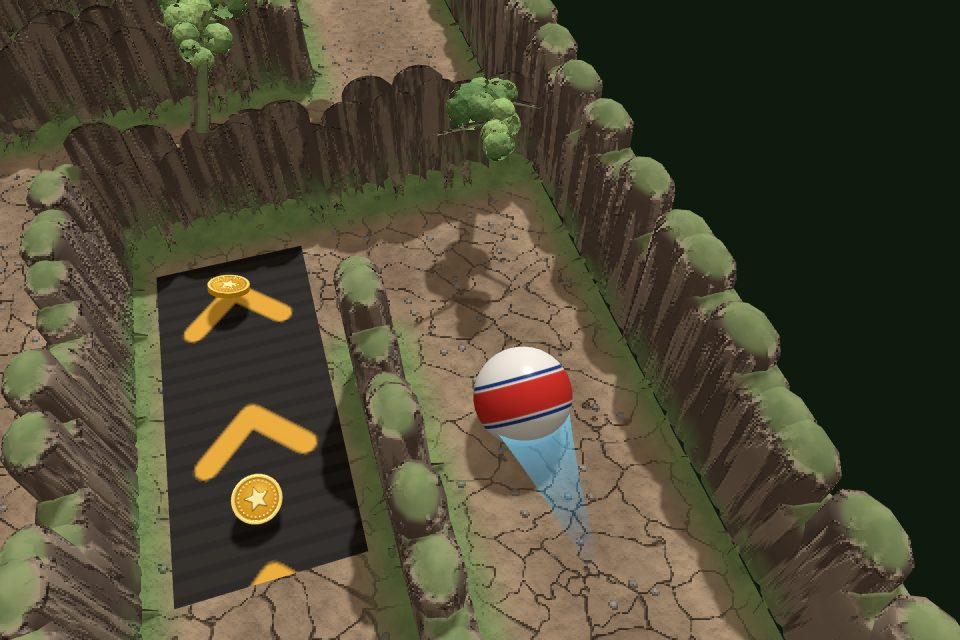
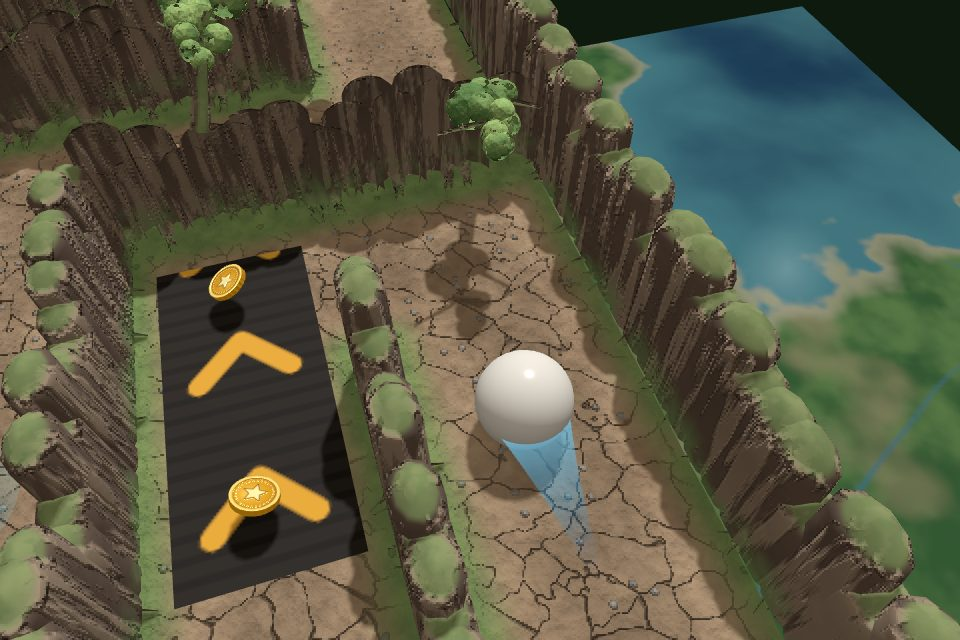
Redo the web landing page for the rescue story and the new look
The landing site now tells the story: Baron Von Ratchet has caged Rolle's
five friends, one on each planet's floor 10. New sections for the story
(with the five caged friends), the planets (and who is held on each), the
Crew and the secrets (fuel cells, the survey, the diary's false walls),
beside the existing how-it-plays, Explore and daily sections. Every picture
is re-shot from the current game by capture.cjs (v2 save; new rescue,
secrets and phone-crew shots; the Worlds and Gear phone shots are gone).

Claude-Session: https://claude.ai/code/session_017VVHYVaEdZY6e7YVJWKN9k

diff --git a/index.html b/index.html
@@ -35,7 +35,7 @@
   <header class="lp-nav">
     <a class="lp-brand" href="#lp-top" aria-label="PlaneTilt"><span class="logo-plane">Plane</span><span class="logo-tilt">T<span class="logo-i"></span>lt</span></a>
     <nav class="lp-links" aria-label="Sections">
-      <a href="#lp-worlds">Worlds</a><a href="#lp-explore">Explore</a><a href="#lp-daily">Rewards</a>
+      <a href="#lp-story">Story</a><a href="#lp-planets">Planets</a><a href="#lp-crew">Crew</a><a href="#lp-secrets">Secrets</a>
     </nav>
     <div class="lp-auth">
       <button class="lp-btn lp-ghost" type="button" data-lp="signin">Sign in</button>
@@ -45,11 +45,11 @@
 
   <main>
     <section id="lp-top" class="lp-hero">
-      <img class="lp-hero-img" src="landing/hero.jpg" width="1600" height="900" alt="A marble with a trail of fire rolls through the lava maze of Magma Works">
+      <img class="lp-hero-img" src="landing/hero.jpg" width="1600" height="900" alt="Rolle's ship beams the marble down onto a maze floating high above a lava planet">
       <div class="lp-hero-text">
         <h1 class="lp-logo" aria-label="PlaneTilt"><span class="logo-plane">Plane</span><span class="logo-tilt">T<span class="logo-i"></span>lt</span></h1>
-        <p class="lp-tagline">Tilt the board. Roll the marble. Escape the maze.</p>
-        <p class="lp-sub">Dodge lava, skid across ice, outrun crushers and dive for coins across fifty mazes in five wild worlds. Free to play on your phone, tablet or computer.</p>
+        <p class="lp-tagline">Tilt the board. Roll to the rescue.</p>
+        <p class="lp-sub">Baron Von Ratchet has caged Rolle's friends deep in the mazes of five planets. Tilt your way through fifty mazes, free them all and fly the crew home. Free to play on your phone, tablet or computer.</p>
         <div class="lp-ctas">
           <button class="lp-btn lp-gold lp-big" type="button" data-lp="register">Create free account</button>
           <button class="lp-btn lp-ghost" type="button" data-lp="signin">I already play</button>
@@ -58,32 +58,72 @@
       </div>
     </section>
 
-    <section id="lp-worlds" class="lp-section">
-      <p class="lp-kicker">The worlds</p>
-      <h2>Five worlds. Fifty mazes. Fifteen ways to fall.</h2>
-      <p class="lp-lead">Every world throws three new traps at you, one at a time, then all at once. Beat its tenth maze to win a prize for the next world.</p>
-      <div class="lp-worlds">
-        <article class="lp-world"><img src="landing/world-1.jpg" width="960" height="640" loading="lazy" alt="The Workshop maze, grown into a forest"><div><h3>Sawturn</h3><p>A wooden workbench that sprouts into a forest as you go.</p><ul><li>Holes</li><li>Moving gates</li><li>Conveyor belts</li></ul></div></article>
-        <article class="lp-world"><img src="landing/world-2.jpg" width="960" height="640" loading="lazy" alt="The Glacier maze with ice patches"><div><h3>Slipstonia</h3><p>Snowy peaks and slick blue ice. Good luck stopping.</p><ul><li>Ice</li><li>Wind fans</li><li>Falling icicles</li></ul></div></article>
-        <article class="lp-world"><img src="landing/world-3.jpg" width="960" height="640" loading="lazy" alt="The Magma Works maze with glowing lava seams"><div><h3>Magmars</h3><p>Black rock over rivers of lava. Don't look down.</p><ul><li>Lava flares</li><li>Molten gates</li><li>Geysers</li></ul></div></article>
-        <article class="lp-world"><img src="landing/world-4.jpg" width="960" height="640" loading="lazy" alt="The Toy Box maze of plastic bricks"><div><h3>Bouncelot</h3><p>Plastic bricks, bouncy bumpers and springs that fling you.</p><ul><li>Bumpers</li><li>Spring pads</li><li>Spinning arms</li></ul></div></article>
-        <article class="lp-world"><img src="landing/world-5.jpg" width="960" height="640" loading="lazy" alt="The Foundry maze with hazard-striped steel walls"><div><h3>Gearth</h3><p>Riveted steel, magnets and crushers. The final boss of mazes.</p><ul><li>Magnets</li><li>Crushers</li><li>Electric rails</li></ul></div></article>
-      </div>
-      <div class="lp-cta-row"><button class="lp-btn lp-gold" type="button" data-lp="register">Create free account</button></div>
-    </section>
-
-    <section class="lp-section lp-split">
-      <div class="lp-shot lp-phone"><img src="landing/phone-worlds.jpg" width="780" height="1688" loading="lazy" alt="The worlds as planets around a sun, with level 1 to 10 of the Workshop below"></div>
+    <section id="lp-story" class="lp-section lp-split">
+      <div class="lp-shot"><img src="landing/rescue.jpg" width="960" height="640" loading="lazy" alt="A friend of Rolle's locked in a cage deep in a maze"></div>
       <div class="lp-copy">
-        <p class="lp-kicker">How it plays</p>
-        <h2>Tilt your phone. Feel the marble roll.</h2>
-        <p class="lp-lead">Lean your phone and the marble rolls, slides and bounces like it's really in your hands. On a computer, use the arrow keys or drag with the mouse.</p>
-        <ul class="lp-points"><li><b>Pick up and play.</b> Most mazes take under a minute. Just one more go...</li><li><b>Close calls.</b> Skim a hole, slip past a gate, make it by a hair.</li><li><b>Coins on risky paths.</b> Grab them for the shop, if you dare the detour.</li></ul>
+        <p class="lp-kicker">The story</p>
+        <h2>Rolle to the rescue.</h2>
+        <p class="lp-lead">Baron Von Ratchet wound up five planets like clocks. To keep them ticking, he kidnapped Rolle's friends from MarbleTopia and set them rolling his maze-engines.</p>
+        <ul class="lp-points"><li><b>Every friend is caged</b> on a planet's tenth floor. Roll through the cage to free them; the exit stays locked until you do.</li><li><b>Every friend you free joins your crew,</b> with a trick of their own.</li><li><b>The Baron left his diary lying around.</b> Find its pages to learn what he is really up to.</li></ul>
+        <div class="lp-friends" aria-label="The five friends held by the Baron">
+          <span class="lp-friend" style="--m:#d58b3a"><i></i><b>Pip</b><small>Sawturn</small></span>
+          <span class="lp-friend" style="--m:#dceeff"><i></i><b>Flurry</b><small>Slipstonia</small></span>
+          <span class="lp-friend" style="--m:#a8381c"><i></i><b>Cinder</b><small>Magmars</small></span>
+          <span class="lp-friend" style="--m:#9b5cff"><i></i><b>Bobble</b><small>Bouncelot</small></span>
+          <span class="lp-friend" style="--m:#c9a24a"><i></i><b>Rivet</b><small>Gearth</small></span>
+        </div>
         <button class="lp-btn lp-gold" type="button" data-lp="register">Create free account</button>
       </div>
     </section>
 
-    <section id="lp-explore" class="lp-section lp-split lp-flip">
+    <section id="lp-planets" class="lp-section">
+      <p class="lp-kicker">The planets</p>
+      <h2>Five planets. Fifty mazes. Fifteen ways to fall.</h2>
+      <p class="lp-lead">Every maze floats high above its planet. Each planet throws three new traps at you, one at a time, then all at once. Find the fuel cells hidden in its mazes to fly Rolle's ship on to the next.</p>
+      <div class="lp-worlds">
+        <article class="lp-world"><img src="landing/world-1.jpg" width="960" height="640" loading="lazy" alt="A Sawturn maze of wood and forest, high above its planet"><div><h3>Sawturn</h3><p>A wooden workbench that sprouts into a forest as you go. Pip is caged on floor 10.</p><ul><li>Holes</li><li>Moving gates</li><li>Conveyor belts</li></ul></div></article>
+        <article class="lp-world"><img src="landing/world-2.jpg" width="960" height="640" loading="lazy" alt="A Slipstonia maze of snow and ice"><div><h3>Slipstonia</h3><p>Snowy peaks and slick blue ice. Good luck stopping. Flurry waits on floor 10.</p><ul><li>Ice</li><li>Wind fans</li><li>Falling icicles</li></ul></div></article>
+        <article class="lp-world"><img src="landing/world-3.jpg" width="960" height="640" loading="lazy" alt="A Magmars maze of black rock with glowing lava seams"><div><h3>Magmars</h3><p>Black rock over rivers of lava. Don't look down. Cinder is held on floor 10.</p><ul><li>Lava flares</li><li>Molten gates</li><li>Geysers</li></ul></div></article>
+        <article class="lp-world"><img src="landing/world-4.jpg" width="960" height="640" loading="lazy" alt="A Bouncelot maze of plastic toy bricks"><div><h3>Bouncelot</h3><p>Plastic bricks, bouncy bumpers and springs that fling you. Bobble is trapped on floor 10.</p><ul><li>Bumpers</li><li>Spring pads</li><li>Spinning arms</li></ul></div></article>
+        <article class="lp-world"><img src="landing/world-5.jpg" width="960" height="640" loading="lazy" alt="A Gearth maze of hazard-striped steel"><div><h3>Gearth</h3><p>The Baron's own foundry: magnets, crushers and live rails. Rivet is locked away on floor 10.</p><ul><li>Magnets</li><li>Crushers</li><li>Electric rails</li></ul></div></article>
+      </div>
+      <div class="lp-cta-row"><button class="lp-btn lp-gold" type="button" data-lp="register">Create free account</button></div>
+    </section>
+
+    <section class="lp-section lp-split lp-flip">
+      <div class="lp-shot lp-phone"><img src="landing/phone-home.jpg" width="780" height="1688" loading="lazy" alt="Home: the planet with its ten landing sites, Rolle's ship in orbit, and the PLAY button"></div>
+      <div class="lp-copy">
+        <p class="lp-kicker">How it plays</p>
+        <h2>Tilt your phone. Feel the marble roll.</h2>
+        <p class="lp-lead">Lean your phone and the marble rolls, slides and bounces like it's really in your hands. On a computer, use the arrow keys or drag with the mouse.</p>
+        <ul class="lp-points"><li><b>Pick a landing site</b> on the planet and drop in. Most mazes take under a minute. Just one more go...</li><li><b>Close calls.</b> Skim a hole, slip past a gate, make it by a hair.</li><li><b>Coins on risky paths.</b> Grab them for the store, if you dare the detour.</li></ul>
+        <button class="lp-btn lp-gold" type="button" data-lp="register">Create free account</button>
+      </div>
+    </section>
+
+    <section id="lp-crew" class="lp-section lp-split">
+      <div class="lp-shot lp-phone"><img src="landing/phone-crew.jpg" width="780" height="1688" loading="lazy" alt="The Crew page: a character card with bond, signature trick and upgrade track"></div>
+      <div class="lp-copy">
+        <p class="lp-kicker">The crew</p>
+        <h2>Every marble is a character.</h2>
+        <p class="lp-lead">Nine marbles, each with a handling all their own and a signature trick they can pull once a run. Cinder shrugs off a lava flare. Glint sees through the Baron's false walls. Bumper hops right back out of a hole.</p>
+        <ul class="lp-points"><li><b>Grow their bond</b> by clearing mazes with them.</li><li><b>Upgrade each one</b> along their own track, all the way to a glowing aura.</li><li><b>Skins and trails,</b> from a tiny Earth to a blazing comet of flame.</li></ul>
+        <button class="lp-btn lp-gold" type="button" data-lp="register">Create free account</button>
+      </div>
+    </section>
+
+    <section id="lp-secrets" class="lp-section lp-split lp-flip">
+      <div class="lp-shot"><img src="landing/secrets.jpg" width="960" height="640" loading="lazy" alt="Beams of light mark a hidden fuel cell and a diary page behind a false wall"></div>
+      <div class="lp-copy">
+        <p class="lp-kicker">Secrets</p>
+        <h2>Every maze is worth exploring.</h2>
+        <p class="lp-lead">The quickest way out is never the whole story. Each maze hides things off the beaten path for players who look.</p>
+        <ul class="lp-points"><li><b>Fuel cells</b> in every maze's deepest dead end fly the ship to the next planet.</li><li><b>Survey a maze</b> by rolling over nine tenths of its floor.</li><li><b>Walls that aren't walls</b> hide the ten pages of the Baron's diary.</li></ul>
+        <button class="lp-btn lp-gold" type="button" data-lp="register">Create free account</button>
+      </div>
+    </section>
+
+    <section id="lp-explore" class="lp-section lp-split">
       <div class="lp-shot"><img src="landing/explore.jpg" width="960" height="640" loading="lazy" alt="Exploring the Glacier maze from inside, behind the marble"></div>
       <div class="lp-copy">
         <p class="lp-kicker">Explore mode</p>
@@ -94,42 +134,20 @@
       </div>
     </section>
 
-    <section class="lp-section lp-split">
-      <div class="lp-shot lp-phone"><img src="landing/phone-gear.jpg" width="780" height="1688" loading="lazy" alt="The Gear page with marbles, skins and trails"></div>
-      <div class="lp-copy">
-        <p class="lp-kicker">Make it yours</p>
-        <h2>Marbles, skins and trails.</h2>
-        <p class="lp-lead">Spend your coins on new marbles and flashy looks. Steel stops on a dime, Rubber hugs the corners, Glass dances at the lightest touch.</p>
-        <ul class="lp-points"><li><b>Skins and trails,</b> from a tiny Earth to a blazing comet of flame.</li><li><b>Upgrades</b> for grip, braking, longer power-ups and coin reach.</li><li><b>Power-ups:</b> a shield that saves a fall, slow motion, a coin magnet.</li></ul>
-        <button class="lp-btn lp-gold" type="button" data-lp="register">Create free account</button>
-      </div>
-    </section>
-
     <section id="lp-daily" class="lp-section lp-split lp-flip">
       <div class="lp-shot lp-phone"><img src="landing/phone-rewards.jpg" width="780" height="1688" loading="lazy" alt="The Rewards panel open on Achievements"></div>
       <div class="lp-copy">
         <p class="lp-kicker">Every day</p>
         <h2>Something new every time you come back.</h2>
-        <p class="lp-lead">A brand-new daily maze, a seven-day reward calendar, three missions a day and 22 achievements to chase.</p>
-        <ul class="lp-points"><li><b>Player levels</b> that unlock skins, trails and power-ups as you climb.</li><li><b>A daily streak</b> that builds to a big day-seven prize.</li><li><b>Achievements</b> for clears, golds, worlds and more, each paying coins.</li></ul>
-        <button class="lp-btn lp-gold" type="button" data-lp="register">Create free account</button>
-      </div>
-    </section>
-
-    <section class="lp-section lp-split">
-      <div class="lp-shot lp-phone"><img src="landing/phone-home.jpg" width="780" height="1688" loading="lazy" alt="The home screen with medals, player level and the PLAY button"></div>
-      <div class="lp-copy">
-        <p class="lp-kicker">Compete</p>
-        <h2>Chase gold. Top the leaderboard.</h2>
-        <p class="lp-lead">Every maze has bronze, silver and gold times to beat. Shave off a second, then see how you stack up against everyone else.</p>
-        <ul class="lp-points"><li><b>A leaderboard for every maze,</b> for Explore mode, and for each day's daily maze.</li><li><b>So close!</b> Near-miss alerts tell you exactly how close gold was.</li></ul>
+        <p class="lp-lead">A brand-new daily maze, a seven-day reward calendar, three missions a day and 27 achievements to chase.</p>
+        <ul class="lp-points"><li><b>Player levels</b> that unlock skins, trails and power-ups as you climb.</li><li><b>A daily streak</b> that builds to a big day-seven prize.</li><li><b>Chase gold:</b> every maze has bronze, silver and gold times, and a leaderboard to top.</li></ul>
         <button class="lp-btn lp-gold" type="button" data-lp="register">Create free account</button>
       </div>
     </section>
 
     <section class="lp-section lp-final">
-      <h2>Ready to roll?</h2>
-      <p class="lp-lead">Make a free account and jump straight in. Your marbles, coins and medals follow you to any phone, tablet or computer.</p>
+      <h2>Your friends are waiting.</h2>
+      <p class="lp-lead">Make a free account and jump straight in. Your crew, coins and medals follow you to any phone, tablet or computer.</p>
       <div class="lp-ctas">
         <button class="lp-btn lp-gold lp-big" type="button" data-lp="register">Create free account</button>
         <button class="lp-btn lp-ghost" type="button" data-lp="signin">Sign in</button>

diff --git a/style.css b/style.css
@@ -1729,3 +1729,12 @@ button.home-worldname:focus-visible { outline: 2px solid #7fe8ff; outline-offset
 .worlds-head { pointer-events: auto; gap: 10px; }
 .worlds-head h1 { flex: 1; }
 .planet-back { flex: none; }
+
+/* --- the landing site's story (2026-10-11): the five caged friends ---------- */
+.lp-friends { display: grid; grid-template-columns: repeat(5, minmax(0, 1fr)); gap: 8px; margin: 0 0 22px; max-width: 30em; }
+.lp-friend { display: flex; flex-direction: column; align-items: center; gap: 3px; text-align: center; }
+.lp-friend i { position: relative; width: 46px; height: 46px; border-radius: 50%; background: radial-gradient(circle at 35% 30%, #fff, var(--m) 45%, #1a1408 120%); box-shadow: 0 4px 10px rgba(0, 0, 0, 0.45); }
+/* the cage's bars over each friend */
+.lp-friend i::after { content: ""; position: absolute; inset: -4px; border-radius: 10px; border: 2px solid rgba(200, 210, 230, 0.7); background: repeating-linear-gradient(90deg, rgba(200, 210, 230, 0.75) 0 2px, transparent 2px 10px); }
+.lp-friend b { font-size: 0.85rem; color: var(--ink); }
+.lp-friend small { font-size: 0.66rem; letter-spacing: 0.08em; text-transform: uppercase; color: #7fe8ff; }
